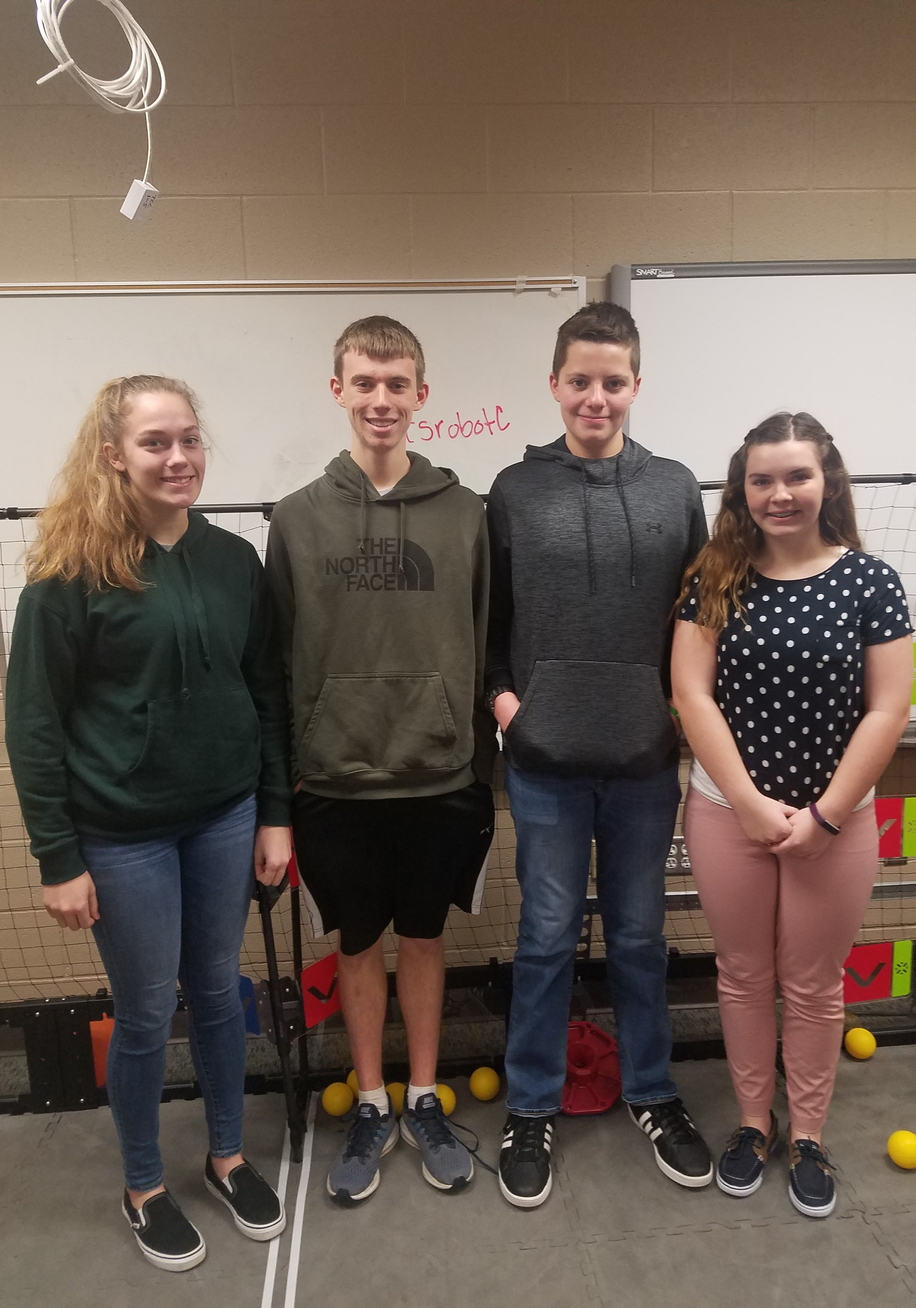
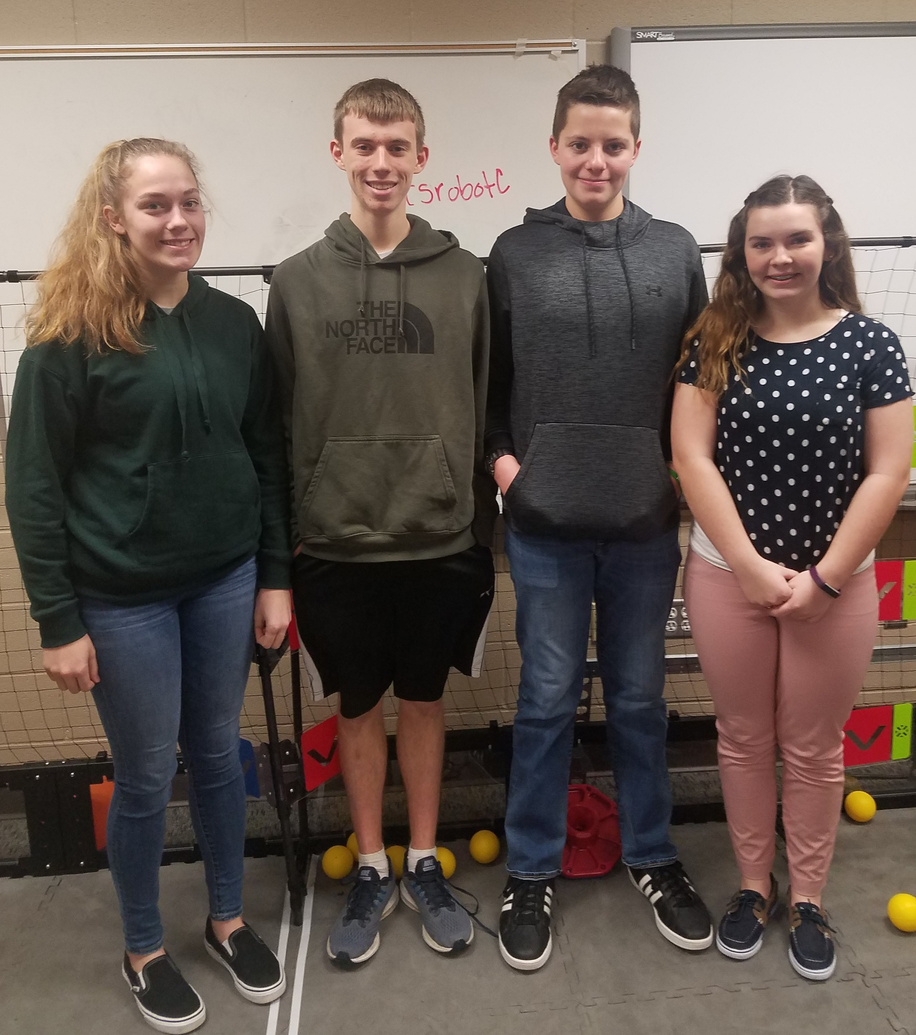
Added middle school team pics

diff --git a/index.html b/index.html
@@ -193,17 +193,17 @@
                 </a>
                 <a href="">
                 <div class="thumbnail mouseoverEffect">
-                    <img src="Images/Robot2.jpg" alt="Team 4" style="width:100%">
+                    <img src="Images/MiddleSchoolTeam2.jpg" alt="Middle School Team 2" style="width:100%">
                     <div class="caption" style="text-align:center;">
-                        <p>Team 4</p>
+                        <p>Middle School Team Two</p>
                     </div>
                 </div>
                 </a>
                 <a href="">
                 <div class="thumbnail mouseoverEffect">
-                    <img src="Images/ScissorLift2.jpg" alt="Team 7" style="width:100%">
+                    <img src="Images/MiddleSchoolTeam4.jpg" alt="Middle School Team 4" style="width:100%">
                     <div class="caption" style="text-align:center;">
-                        <p>Team 7</p>
+                        <p>Middle School Team 4</p>
                     </div>
                 </div>
                 </a>
@@ -245,9 +245,9 @@
             </div>
             <a href="">
             <div class="thumbnail mouseoverEffect">
-                <img src="Images/ScissorLift5.jpg" alt="Team 6" style="width:100%">
+                <img src="Images/MiddleSchoolTeam3.JPG" alt="Middle School Team 3" style="width:100%">
                 <div class="caption" style="text-align:center;">
-                    <p>Team 6</p>
+                    <p>Middle School Team 3</p>
                 </div>
             </div>
             </a>
